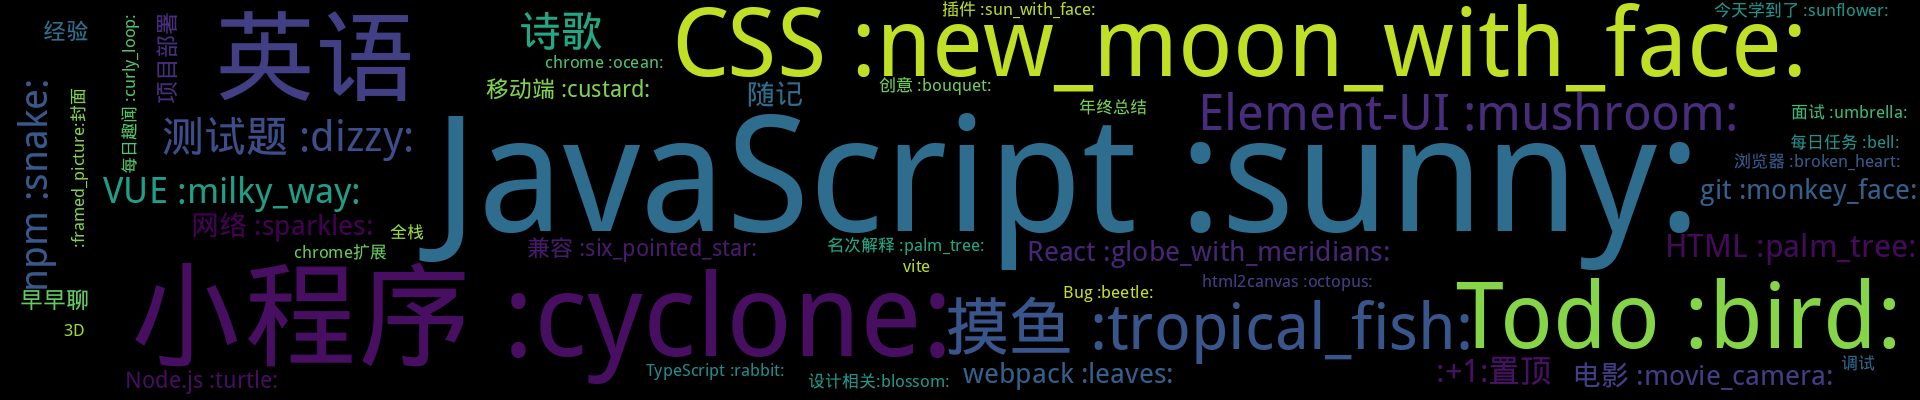
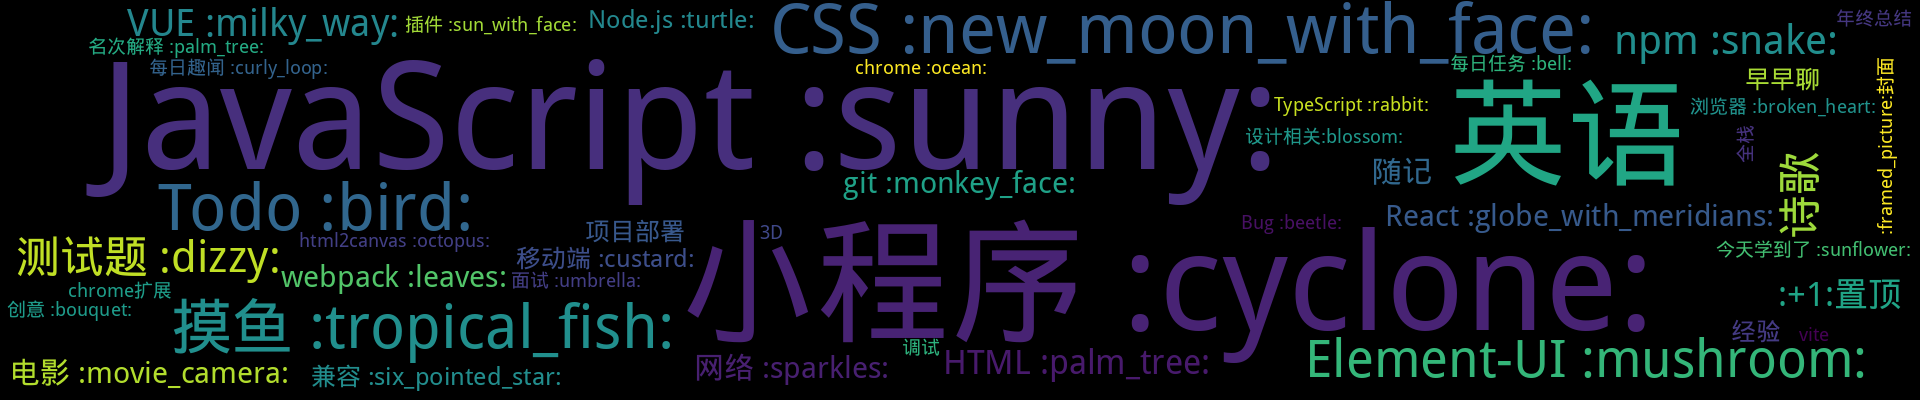
Update from Github Action

diff --git a/README.md b/README.md
@@ -3,7 +3,7 @@
 <p align='center'>
     <img src="https://badgen.net/badge/labels/48"/>
     <img src="https://badgen.net/github/issues/smileyby/ghiblog"/>
-    <img src="https://badgen.net/badge/last-commit/2022-01-24 09:01:58"/>
+    <img src="https://badgen.net/badge/last-commit/2022-02-14 08:22:52"/>
     <img src="https://badgen.net/github/forks/smileyby/ghiblog"/>
     <img src="https://badgen.net/github/stars/smileyby/ghiblog"/>
     <img src="https://badgen.net/github/watchers/smileyby/ghiblog"/>
@@ -38,6 +38,17 @@
 - [你想住在中国哪里？（转自阮一峰周刊第180期）](https://github.com/smileyby/notes/issues/167)  <sup>0 :speech_balloon:</sup>  	 
 - [掘金小册：小程序底层框架实现原理-笔记](https://github.com/smileyby/notes/issues/165)  <sup>0 :speech_balloon:</sup>  	 
 ## 最新 :new: 
+
+#### [CSS：display：inline-block 元素错位问题的原因？](https://github.com/smileyby/notes/issues/216) <sup>0 :speech_balloon:</sup> 	 2022-02-14 08:21:30
+
+:label: : [CSS :new_moon_with_face:](https://github.com/smileyby/ghiblog/labels/CSS%20%3Anew_moon_with_face%3A)
+
+
+
+[更多>>>](https://github.com/smileyby/notes/issues/216)
+
+---
+
 
 #### [Todo：自动挖矿脚本实现+自动签到](https://github.com/smileyby/notes/issues/215) <sup>0 :speech_balloon:</sup> 	 2022-01-24 09:01:28
 
@@ -81,17 +92,6 @@ https://my-room-in-3d.vercel.app/
 https://www.window-swap.com/Window
 
 [更多>>>](https://github.com/smileyby/notes/issues/212)
-
----
-
-
-#### [英语表达：习惯了 => Force of habit.](https://github.com/smileyby/notes/issues/211) <sup>0 :speech_balloon:</sup> 	 2022-01-20 03:52:54
-
-:label: : [英语](https://github.com/smileyby/ghiblog/labels/%E8%8B%B1%E8%AF%AD)
-
-
-
-[更多>>>](https://github.com/smileyby/notes/issues/211)
 
 ---
 
@@ -157,8 +157,9 @@ https://www.window-swap.com/Window
 </details>
 
 <details>
-<summary>CSS :new_moon_with_face:	<sup>17:newspaper:</sup></summary>
+<summary>CSS :new_moon_with_face:	<sup>18:newspaper:</sup></summary>
 
+- [CSS：display：inline-block 元素错位问题的原因？](https://github.com/smileyby/notes/issues/216)  <sup>0 :speech_balloon:</sup>  	 
 - [背景图实现暗黑模式](https://github.com/smileyby/notes/issues/209)  <sup>1 :speech_balloon:</sup>  	 
 - [text-align: justify](https://github.com/smileyby/notes/issues/199)  <sup>0 :speech_balloon:</sup>  	 
 - [CSS打字效果实现](https://github.com/smileyby/notes/issues/177)  <sup>0 :speech_balloon:</sup>  	 
